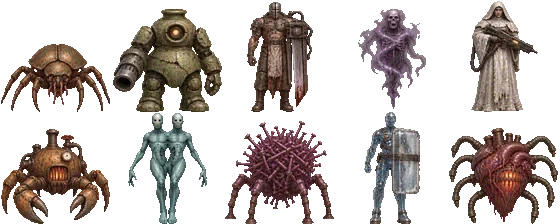
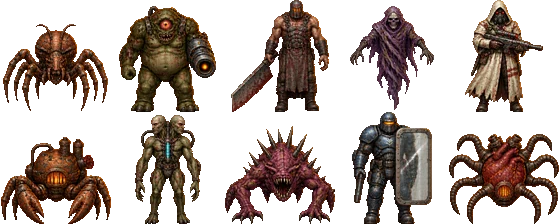
Rebuild the campaign as three enclosed mazes with five weapons and new enemy art

diff --git a/index.html b/index.html
@@ -24,30 +24,65 @@ const types=[
  ['Custodi de vidre','#89b3fb','guard',70],['Cor de la foneria','#ff5641','boss',240]
 ];
 const guns=[
- {name:'Martell d’Arc',damage:24,rate:.28,cost:0,color:'#75eaf1',spread:.08},
- {name:'Sega de Sal',damage:53,rate:.65,cost:1,color:'#ffc88a',spread:.22},
- {name:'Forn de Butxaca',damage:78,rate:.85,cost:2,color:'#ff6745',spread:.12}
+ {name:'Martell d’Arc',damage:24,rate:.28,cost:0,color:'#75eaf1',spread:.055,range:12,targets:1,sound:188},
+ {name:'Retallada',damage:132,rate:.95,cost:2,color:'#ffc48e',spread:.30,range:5.6,targets:4,sound:102},
+ {name:'Perforadora',damage:19,rate:.105,cost:1,color:'#ffdf7c',spread:.075,range:11,targets:1,sound:237},
+ {name:'Llança de Plasma',damage:63,rate:.43,cost:2,color:'#7af4c6',spread:.04,range:15,targets:3,sound:361},
+ {name:'Forn de Butxaca',damage:105,rate:.72,cost:3,color:'#ff6944',spread:.12,range:10,targets:1,sound:68}
 ];
 const levels=[
- ['El torn de nit','#ad6246','#29212d',[[4,3,1,8],[9,8,6,1],[12,3,1,6]],[[6,3,0],[6,10,1],[10,4,2],[13,10,0],[14,14,1],[5,14,2]]],
- ['La cisterna cega','#467f86','#182936',[[3,5,11,1],[8,6,1,7],[3,10,3,1],[11,9,1,6]],[[5,3,3],[12,3,4],[14,7,5],[6,8,6],[5,13,3],[14,13,5],[3,14,4]]],
- ['El cor de ferro','#8e4667','#321a2a',[[5,3,1,4],[11,3,1,4],[3,9,4,1],[10,9,5,1],[8,12,1,2]],[[4,6,7],[13,6,8],[8,5,6],[5,12,8],[13,13,7],[8,15,9]]]
+ {name:'El torn de nit',route:[0,1,2,3,7,6,5,4,8,9,10,11,15,14,13,12], roster:[0,0,1,0,2,1,0,2,1,2], alcoves:[[2,0,1],[6,-1,0],[10,0,1]]},
+ {name:'La cisterna cega',route:[0,4,8,12,13,9,5,1,2,6,10,14,15,11,7,3], roster:[3,4,3,5,6,4,5,3,6,5,4,6], alcoves:[[4,1,0],[9,1,0],[11,-1,0]]},
+ {name:'El cor de ferro',route:[0,1,2,3,7,11,15,14,13,12,8,4,5,6,10,9], roster:[7,6,8,7,8,5,7,8,6,7,8,9], alcoves:[[1,0,1],[13,0,-1],[4,1,0]]}
 ];
+const mapSize=29;
 const keys=new Set();
-let n=0,grid,heights,foes,shots,items,p,weapon,heat,flash,hurt,state='menu',time=0,elapsed=0;
+let n=0,grid,heights,foes,shots,items,p,weapon,heat,flash,hurt,exitPoint,lamps,unlocked,ceiling;
+let state='menu',time=0,elapsed=0,roomDistance;
 let audio, music, fx, step=0, nextBeat=0, muted=false;
 function level(index){
- n=index; grid=Array.from({length:17},(_,y)=>Array.from({length:17},(_,x)=>+(x===0||y===0||x===16||y===16)));
- for(const [x,y,w,h] of levels[n][3])for(let j=y;j<y+h;j++)for(let i=x;i<x+w;i++)grid[j][i]=1;
- heights=grid.map((row,y)=>row.map((_,x)=>{
-  if(n===0)return x>=9?[0,.2,.4,.6,.8][Math.min(4,x-9)]:0;
-  if(n===1)return y>=7?-Math.min(1.2,(y-7)*.24):0;
-  return y>=10?Math.min(1.5,(y-10)*.25):0;
- }));
- foes=levels[n][4].map(([x,y,id],i)=>({x:x+.5,y:y+.5,id,hp:types[id][3],phase:i*.71,reload:1+i*.1,hit:0,dead:0,wind:0}));
- p={x:2.5,y:2.5,a:.2,z:0,hp:100,ammo:14}; shots=[]; heat=flash=hurt=0;
- items=[[2.5,13.5,'hp'],[14.5,3.5,'ammo'],[7.5,11.5,'ammo'],[15.5,13.5,'hp'],[15.5,15.5,'exit']].filter(i=>!wall(i[0],i[1]));
- weapon=n; step=0;
+ n=index;
+ const chapter=levels[n], rooms=Array.from({length:16},(_,i)=>[3+i%4*7,3+Math.floor(i/4)*7]);
+ grid=Array.from({length:mapSize},()=>Array(mapSize).fill(1));
+ function carve(cx,cy,rx,ry){
+  for(let y=cy-ry;y<=cy+ry;y++)for(let x=cx-rx;x<=cx+rx;x++)grid[y][x]=0;
+ }
+ rooms.forEach(([x,y],i)=>{
+  if(chapter.route.at(-1)===i)carve(x,y,2,2);
+  else carve(x,y,n===1&&i%3===0?1:2,n===2&&i%3!==0?1:2);
+ });
+ const passages=chapter.route.slice(1).map((id,i)=>[chapter.route[i],id]);
+ for(const [from,to] of passages){
+  const [x,y]=rooms[from],[ex,ey]=rooms[to];
+  if(x!==ex&&y!==ey)continue;
+  for(let j=Math.min(y,ey);j<=Math.max(y,ey);j++)for(let i=Math.min(x,ex);i<=Math.max(x,ex);i++)grid[j][i]=0;
+ }
+ for(const [room,dx,dy] of chapter.alcoves){
+  const [x,y]=rooms[room];
+  if(grid[y+dy*3]?.[x+dx*3]===1){
+   grid[y+dy*3][x+dx*3]=0;
+   grid[y+dy*2][x+dx*2]=0;
+  }
+ }
+ ceiling=[1.92,1.76,2.02][n];
+ heights=grid.map((row,y)=>row.map((_,x)=>n===0?Math.min(.6,Math.max(0,x-10)*.1):n===1?-Math.min(.64,Math.max(0,y-8)*.08):Math.min(.72,Math.max(0,x-8)*.09)));
+ foes=chapter.roster.map((id,i)=>{
+  const [x,y]=rooms[chapter.route[2+Math.floor(i*13/(chapter.roster.length-1))]];
+  return {x:x+.5,y:y+.5,id,hp:types[id][3],phase:i*.71,reload:1+i*.1,hit:0,dead:0,wind:0};
+ });
+ const [sx,sy]=rooms[chapter.route[0]],[nx,ny]=rooms[chapter.route[1]];
+ p={x:sx+.5,y:sy+.5,a:Math.atan2(ny-sy,nx-sx),z:heights[sy][sx],hp:100,ammo:20};
+ shots=[];heat=flash=hurt=0;
+ const [ex,ey]=rooms[chapter.route.at(-1)];
+ exitPoint=[ex+1.5,ey+.5];
+ items=[[...exitPoint,'exit']];
+ for(const [order,kind] of [[2,'ammo'],[4,'hp'],[6,'ammo'],[8,'hp'],[10,'ammo'],[12,'hp'],[14,'ammo']]){
+  const [x,y]=rooms[chapter.route[order]];
+  items.push([x-.5,y+.5,kind]);
+ }
+ unlocked=[2,4,5][n];weapon=[0,2,4][n];step=0;
+ lamps=chapter.route.filter((_,i)=>i%2===0||i===15).map(id=>rooms[id].map(v=>v+.5));
+ roomDistance=null;
 }
 const wall=(x,y)=>grid[Math.floor(y)]?.[Math.floor(x)]!==0;
 const floor=(x,y)=>heights[Math.floor(y)]?.[Math.floor(x)]??0;
@@ -61,7 +96,7 @@ function ray(x,y,dx,dy,startZ,endZ,distance){
  const sx=Math.sign(dx),sy=Math.sign(dy),ax=Math.abs(1/dx),ay=Math.abs(1/dy);
  let tx=sx===0?Infinity:(dx<0?x-ix:ix+1-x)*ax;
  let ty=sy===0?Infinity:(dy<0?y-iy:iy+1-y)*ay;
- for(let i=0;i<36;i++){
+ for(let i=0;i<mapSize*2;i++){
   const side=ty<tx,d=side?ty:tx;
   if(side){iy+=sy;ty+=ay}else{ix+=sx;tx+=ax}
   if(d>=distance)return true;
@@ -139,7 +174,7 @@ function prepareEnemies(){
   button.disabled=false;
   button.onclick=()=>location.reload();
  };
- portraits.src='./assets/enemies.webp';
+ portraits.src='./assets/enemies.webp?v=laberint';
 }
 function initAudio(){
  if(!audio){
@@ -182,14 +217,42 @@ function fire(){
  let gun=guns[weapon];
  if(p.ammo<gun.cost){weapon=0;gun=guns[0]}
  p.ammo-=gun.cost;heat=gun.rate;flash=.105;
- if(audio)tone([188,116,77][weapon],.18,.7,'sawtooth',audio.currentTime,fx,29);
+ if(audio)tone(gun.sound,weapon===1?.24:.16,.7,'sawtooth',audio.currentTime,fx,29);
  const targets=foes.filter(e=>{
   const dx=e.x-p.x,dy=e.y-p.y,d=Math.hypot(dx,dy)||.001;
-  return e.hp>0&&Math.abs(angle(Math.atan2(dy,dx)-p.a))<Math.atan2(.30,d)+gun.spread&&ray(p.x,p.y,dx/d,dy/d,p.z+.5,floor(e.x,e.y)+.52,d);
+  return e.hp>0&&d<gun.range&&Math.abs(angle(Math.atan2(dy,dx)-p.a))<Math.atan2(.30,d)+gun.spread&&ray(p.x,p.y,dx/d,dy/d,p.z+.5,floor(e.x,e.y)+.52,d);
  }).sort((a,b)=>Math.hypot(a.x-p.x,a.y-p.y)-Math.hypot(b.x-p.x,b.y-p.y));
- targets.slice(0,weapon===1?3:1).forEach((e,i)=>{e.hp-=gun.damage/(i+1)*(e.id===8&&!e.wind?.55:1);e.hit=.17});
+ targets.slice(0,gun.targets).forEach((e,i)=>{
+  const distance=Math.hypot(e.x-p.x,e.y-p.y);
+  const drop=weapon===1?Math.max(.30,1-distance*.13):1;
+  e.hp-=gun.damage*drop/(1+i*.42)*(e.id===8&&!e.wind?.55:1);
+  e.hit=.17;
+  if(weapon===4){
+   for(const other of foes){
+    const dx=other.x-e.x,dy=other.y-e.y,d=Math.hypot(dx,dy);
+    if(other===e||other.hp<=0||d>1.5||!ray(e.x,e.y,dx/d,dy/d,floor(e.x,e.y)+.52,floor(other.x,other.y)+.52,d))continue;
+    other.hp-=44*(1-d/1.6);other.hit=.17;
+   }
+  }
+ });
 }
 function damage(v){if(hurt<=0){p.hp=Math.max(0,p.hp-v);hurt=.32}}
+const neighbors=[[1,0],[-1,0],[0,1],[0,-1]];
+function updateNavigation(){
+ const x=Math.floor(p.x),y=Math.floor(p.y),start=y*mapSize+x;
+ if(roomDistance?.start===start)return;
+ const values=new Int16Array(mapSize*mapSize).fill(-1);
+ const queue=[start];values[start]=0;
+ for(let i=0;i<queue.length;i++){
+  const node=queue[i],x=node%mapSize,y=Math.floor(node/mapSize);
+  for(const [dx,dy] of neighbors){
+   const nx=x+dx,ny=y+dy,next=ny*mapSize+nx;
+   if(grid[ny]?.[nx]!==0||values[next]!==-1)continue;
+   values[next]=values[node]+1;queue.push(next);
+  }
+ }
+ roomDistance={start,values};
+}
 function update(dt){
  const turn=+keys.has('arrowright')-keys.has('arrowleft');
  p.a+=turn*dt*2.3;
@@ -199,6 +262,7 @@ function update(dt){
  p.z+=(floor(p.x,p.y)-p.z)*Math.min(1,dt*13);
  if(forward||strafe)elapsed+=dt*10;
  heat-=dt;flash-=dt;hurt-=dt;if(keys.has(' '))fire();
+ updateNavigation();
  for(const e of foes){
   e.hit-=dt;if(e.hp<=0){e.dead+=dt;continue}
   const dx=p.x-e.x,dy=p.y-e.y,d=Math.hypot(dx,dy)||.001,kind=types[e.id][2],see=ray(e.x,e.y,dx/d,dy/d,floor(e.x,e.y)+.48,p.z+.44,d);
@@ -213,9 +277,20 @@ function update(dt){
     for(const offset of offsets)shots.push({x:e.x,y:e.y,a:base+offset,altitude:floor(e.x,e.y)+.48,color:types[e.id][1],speed:kind==='sniper'?8:3.3,slope:(p.z+.44-floor(e.x,e.y)-.48)/d,ttl:4});
    }
   }
-  e.walk=d<9&&(!see||d>(melee?.57:kind==='sniper'?7:3));
+  const x=Math.floor(e.x),y=Math.floor(e.y);
+  const pathLength=roomDistance.values[y*mapSize+x];
+  e.walk=see?d<9&&d>(melee?.57:kind==='sniper'?7:3):pathLength>0&&pathLength<=10;
+  if(kind==='boss'&&!see)e.walk=false;
   if(e.walk&&d>.05){
    const speed=([2.4,1.2,2,2.1,1, .87,2.1,1,1.3,1.1][e.id]+(kind==='charger'&&see?1:0))*dt;
+   if(!see){
+    const next=neighbors.find(([ox,oy])=>grid[y+oy]?.[x+ox]===0&&roomDistance.values[(y+oy)*mapSize+x+ox]===pathLength-1);
+    if(next){
+     const vx=x+next[0]+.5-e.x,vy=y+next[1]+.5-e.y,dist=Math.hypot(vx,vy);
+     move(e,vx/dist*speed,vy/dist*speed,.21);
+    }
+    continue;
+   }
    const steer=kind==='strafer'?Math.sin(time*3):0;
    const ox=e.x,oy=e.y;move(e,(dx-dy*steer)/d*speed,(dy+dx*steer)/d*speed,.21);
    if(Math.hypot(e.x-ox,e.y-oy)<speed*.3)move(e,-dy/d*speed,dx/d*speed,.21);
@@ -235,7 +310,7 @@ function update(dt){
   return kind==='exit';
  });
  if(p.hp<=0)end(false);
- else if(clear&&Math.hypot(p.x-15.5,p.y-15.5)<.55){if(n===2)end(true);else level(n+1)}
+ else if(clear&&Math.hypot(p.x-exitPoint[0],p.y-exitPoint[1])<.55){if(n===2)end(true);else level(n+1)}
 }
 const depth=new Float32Array(W*H);
 const frameBuffer=ctx.createImageData(W,H);
@@ -245,17 +320,12 @@ const palettes=[
  [[49,93,98],[33,58,67],[26,42,53],[100,238,216]],
  [[103,46,77],[60,36,57],[46,25,41],[247,93,136]]
 ];
-const ceiling=2.95, horizon=H/2, focal=270;
+const horizon=H/2, focal=270;
 function shade(rgb,light){
  const r=Math.min(255,rgb[0]*light)|0,g=Math.min(255,rgb[1]*light)|0,b=Math.min(255,rgb[2]*light)|0;
  return (255<<24)|(b<<16)|(g<<8)|r;
 }
-const fixtures=[
- [[3.5,3.5],[6.5,5.5],[10.5,6.5],[14.5,10.5],[7.5,13.5]],
- [[3.5,3.5],[11.5,4.5],[5.5,8.5],[12.5,10.5],[8.5,14.5]],
- [[3.5,3.5],[8.5,5.5],[13.5,6.5],[6.5,11.5],[12.5,13.5]]
-];
-const lightSize=68;
+const lightSize=mapSize*4;
 const lighting=new Float32Array(lightSize*lightSize*3);
 function lightAt(x,y){
  const col=Math.max(0,Math.min(lightSize-1,Math.floor(x*4)));
@@ -263,11 +333,11 @@ function lightAt(x,y){
  return (row*lightSize+col)*3;
 }
 const glowColors=[[255,137,66],[91,226,250],[255,90,151]];
-const boltColor=[[102,229,255],[255,189,81],[255,91,65]];
+const boltColor=[[102,229,255],[255,189,81],[255,212,101],[95,255,178],[255,91,65]];
 const reactorPulse=()=>Math.pow(Math.max(0,Math.cos(time*3.7)),9);
 function addLight(x,y,radius,power,color){
- const minX=Math.max(0,Math.floor((x-radius)*4)),maxX=Math.min(67,Math.ceil((x+radius)*4));
- const minY=Math.max(0,Math.floor((y-radius)*4)),maxY=Math.min(67,Math.ceil((y+radius)*4));
+ const minX=Math.max(0,Math.floor((x-radius)*4)),maxX=Math.min(lightSize-1,Math.ceil((x+radius)*4));
+ const minY=Math.max(0,Math.floor((y-radius)*4)),maxY=Math.min(lightSize-1,Math.ceil((y+radius)*4));
  for(let j=minY;j<=maxY;j++)for(let i=minX;i<=maxX;i++){
   const dx=(i+.5)/4-x,dy=(j+.5)/4-y;
   const strength=Math.max(0,1-(dx*dx+dy*dy)/(radius*radius))**2*power;
@@ -277,8 +347,8 @@ function addLight(x,y,radius,power,color){
 }
 function updateLights(core){
  lighting.fill(0);
- fixtures[n].forEach(([x,y],i)=>addLight(x,y,3.35,.26+.035*Math.sin(time*5+i*11),glowColors[n]));
- fixtures[n].forEach(([x,y],i)=>{if(i%2===0)addLight(x+1,y+1,2.7,.11,[119,168,219])});
+ lamps.forEach(([x,y],i)=>addLight(x,y,3.35,.26+.035*Math.sin(time*5+i*11),glowColors[n]));
+ lamps.forEach(([x,y],i)=>{if(i%2===0)addLight(x+1,y+1,2.7,.11,[119,168,219])});
  if(core)addLight(core.x,core.y,6.4,.20+reactorPulse()*.59,[255,48,33]);
  if(flash>0)addLight(p.x+Math.cos(p.a)*.6,p.y+Math.sin(p.a)*.6,4,.65*flash/.105,boltColor[weapon]);
  for(const shot of shots)addLight(shot.x,shot.y,1.45,.16,[255,130,82]);
@@ -317,7 +387,7 @@ function world(ca,sa,plane,eye){
   const ax=Math.abs(1/dx),ay=Math.abs(1/dy),sx=Math.sign(dx),sy=Math.sign(dy);
   let tx=sx===0?Infinity:(sx<0?p.x-ix:ix+1-p.x)*ax;
   let ty=sy===0?Infinity:(sy<0?p.y-iy:iy+1-p.y)*ay;
-  for(let cell=0;cell<36;cell++){
+  for(let cell=0;cell<mapSize*2;cell++){
    const side=ty<tx,d=Math.max(.004,Math.min(tx,ty));
    const z=heights[iy][ix];
    const face=(horizon+(eye-z)*focal/d);
@@ -359,7 +429,7 @@ function world(ca,sa,plane,eye){
      const altitude=eye-(y-horizon)*d/focal;
      const row=Math.floor(altitude*42),grain=((row*31^stripe*17)&15)*.013;
      const material=surfacePixel(stripe,row,solid);
-     const luminous=solid&&(row&63)===42&&stripe>8&&stripe<54;
+     const luminous=solid&&(row&63)===42&&stripe>8&&stripe<54&&(ix+iy)%3===0;
      const illumination=(1.15+grain)/(1+d*.108)*(side?.79:1);
      const faceLight=lightAt(p.x+dx*(d-.025),p.y+dy*(d-.025));
      pixels[index]=lit(luminous?lamp:wallMaterials[n][material],illumination*(luminous?1.6:1),faceLight,material===3?.58:1);
@@ -393,7 +463,7 @@ function drawAtmosphere(ca,sa,plane,eye,core){
  const sparks=n===1?'#c4fff1':n===2?'#ff8054':'#ffb86c';
  const count=core?77:43;
  for(let i=0;i<count;i++){
-  const anchor=i<43?fixtures[n][i%5]:[core.x,core.y];
+  const anchor=i<43?lamps[i%lamps.length]:[core.x,core.y];
   const cycle=(i*.6180339+time*(.13+i%5*.024))%1;
   const drift=(i*2.39996)+cycle*1.4;
   const radius=(.18+cycle)*(.65+(i%9)*.155);
@@ -423,7 +493,7 @@ function draw(){
  const core=n===2?foes.find(e=>e.id===9&&e.hp>0):null;
  updateLights(core);
  world(ca,sa,plane,eye);
- const scene=fixtures[n].map(([x,y])=>({x,y,art:fixtureArt[n],size:.50,altitude:2.42,fixture:true}));
+ const scene=lamps.map(([x,y])=>({x,y,art:fixtureArt[n],size:.50,altitude:ceiling-.51,fixture:true}));
  for(const e of foes){
   if(!atlas[e.id])continue;
   const pose=e.hp<=0?'death':e.wind>0?'attack':e.walk?'walk':'idle';
@@ -471,20 +541,31 @@ function draw(){
  drawAtmosphere(ca,sa,plane,eye,core);
  ctx.save();
  ctx.scale(W/480,H/270);
- const gy=270-70+Math.sin(elapsed)*3+Math.max(0,flash)*210,gx=240+Math.cos(elapsed/2)*4;
+ const reloadDip=weapon===1&&heat>.15&&heat<.76?Math.sin((heat-.15)/.61*Math.PI)*22:0;
+ const gy=270-70+Math.sin(elapsed)*3+Math.max(0,flash)*210+reloadDip,gx=240+Math.cos(elapsed/2)*4;
  const profile=(color,points)=>{
   ctx.fillStyle=color;ctx.beginPath();
   points.forEach(([x,y],i)=>i?ctx.lineTo(gx+x,gy+y):ctx.moveTo(gx+x,gy+y));
   ctx.closePath();ctx.fill();
  };
- const wide=[25,41,34][weapon];
+ const wide=[25,40,32,29,39][weapon];
  profile('#20131f',[[-wide-7,30],[-wide-1,15],[-wide,4],[-16,-6],[17,-6],[wide,4],[wide+6,30],[53,77],[-53,77]]);
  profile('#675464',[[-wide,12],[-17,-3],[17,-3],[wide,12],[wide-4,46],[-wide+4,46]]);
  profile('#9b8580',[[-wide,12],[-17,-3],[17,-3],[wide,12],[26,18],[-26,18]]);
  profile('#302632',[[-26,18],[26,18],[32,45],[27,64],[-31,64],[-33,43]]);
  const color=guns[weapon].color;
- for(let i=0;i<weapon+2;i++){
-  const x=(i-(weapon+1)/2)*13;
+ if(weapon===1){
+  profile('#503023',[[-40,35],[-32,22],[32,22],[40,35],[29,64],[-29,64]]);
+  for(const side of [-1,1]){
+   const x=side*16;
+   profile('#27272b',[[x-13,26],[x-11,-13],[x+11,-13],[x+13,26]]);
+   profile('#858589',[[x-10,12],[x-8,-12],[x+8,-12],[x+10,12]]);
+   ctx.fillStyle='#0c0c12';ctx.fillRect(gx+x-7,gy-10,14,7);
+   ctx.fillStyle='#c2aba0';ctx.fillRect(gx+x-8,gy-12,16,2);
+   ctx.fillStyle='#9e6342';ctx.fillRect(gx+x-9,gy+34,17,4);
+  }
+ }else for(let i=0;i<[2,2,3,2,4][weapon];i++){
+  const x=(i-([2,2,3,2,4][weapon]-1)/2)*13;
   ctx.fillStyle='#1d1625';ctx.fillRect(gx+x-5,gy+4,10,30);
   ctx.fillStyle=color;ctx.fillRect(gx+x-3,gy+6,6,24);
   ctx.fillStyle='#fff5db';ctx.fillRect(gx+x-2,gy+8,2,12);
@@ -501,7 +582,7 @@ function draw(){
  ctx.fillStyle='#fff0d0';ctx.fillRect(240-1,135-1,2,2);
  ctx.fillStyle='#100b17';ctx.fillRect(0,270-28,480,28);
  ctx.font='bold 11px monospace';ctx.fillStyle='#ff8b61';ctx.fillText('VIDA '+p.hp,10,270-10);
- ctx.fillStyle='#fff0d0';ctx.fillText(guns[weapon].name+' · '+p.ammo,89,270-10);
+ ctx.fillStyle='#fff0d0';ctx.fillText((weapon+1)+' '+guns[weapon].name+' · '+p.ammo,78,270-10);
  ctx.fillStyle='#9ee9dd';ctx.fillText((n+1)+'/3  '+levels[n][0],289,270-10);
  const remaining=foes.filter(e=>e.hp>0).length;
  ctx.fillStyle='#100b17bb';ctx.fillRect(8,8,154,21);
@@ -522,11 +603,11 @@ $('start').onclick=()=>{
  if(matchMedia('(pointer:fine)').matches)screen.requestPointerLock?.()?.catch?.(()=>{});
 };
 $('mute').onclick=()=>{muted=!muted;if(music)music.gain.value=muted?0:.34;$('mute').textContent=muted?'♫ ×':'♫'};
-$('swap').onclick=()=>{weapon=(weapon+1)%(n+1)};
+$('swap').onclick=()=>{weapon=(weapon+1)%unlocked};
 function pause(){
  if(state!=='playing')return;
  state='pause';document.body.classList.remove('playing');keys.clear();
- $('intro').textContent='WASD per moure’t, ratolí o fletxes per girar, clic o espai per disparar, 1–3 per canviar d’arma.';
+ $('intro').textContent='WASD per moure’t, ratolí o fletxes per girar, clic o espai per disparar, 1–5 per canviar d’arma.';
  $('start').textContent='Continua';$('menu').hidden=false;
 }
 document.addEventListener('pointerlockchange',()=>{if(!document.pointerLockElement)pause()});
@@ -535,7 +616,7 @@ window.addEventListener('keydown',e=>{
  if(state!=='playing')return;
  const k=e.key.toLowerCase();keys.add(k);
  if([' ','arrowup','arrowdown','arrowleft','arrowright'].includes(k))e.preventDefault();
- if(/^[123]$/.test(k)&&Number(k)<=n+1)weapon=Number(k)-1;
+ if(/^[1-5]$/.test(k)&&Number(k)<=unlocked)weapon=Number(k)-1;
  if(k==='escape')pause();
 });
 window.addEventListener('keyup',e=>keys.delete(e.key.toLowerCase()));
